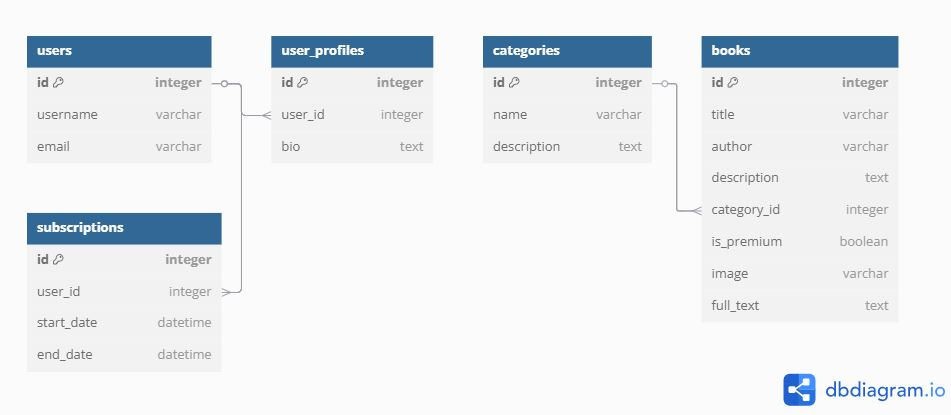
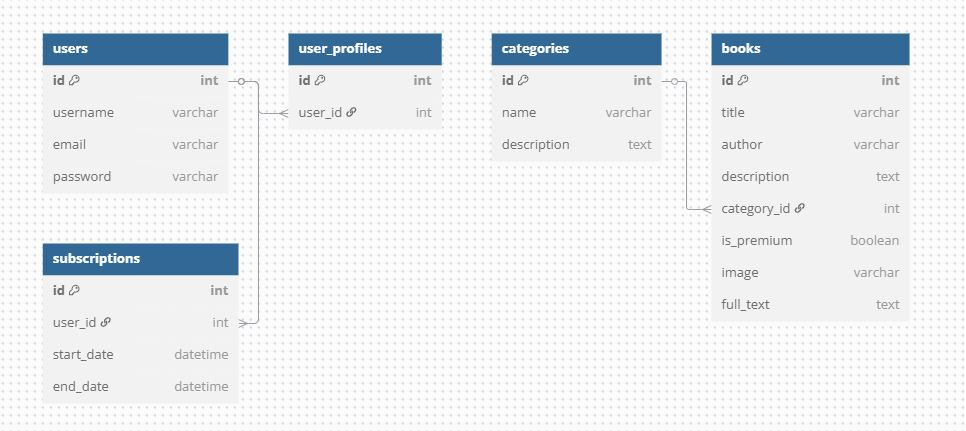
readme file updated

diff --git a/README.md b/README.md
@@ -16,8 +16,7 @@ Author: Aleksandar Husagic
 - [Database and Data Structure](#database-and-data-structure)  
 - [Testing](#testing)      
 - [Environment Variables](#environment-variables)   
-- [Future Improvements](#future-improvements)  
-- [Author](#author)  
+- [Future Improvements](#future-improvements)   
 ---
 
 ## Project Overview
@@ -122,10 +121,8 @@ The database schema is represented by the following Django models and their rela
 
 #### 3. **UserProfile**
 
-- Extends Django’s built-in User model for additional info.
 - Fields:
-  - `user`: OneToOneField to User  
-  - `bio`: Text, optional user biography  
+  - `user`: OneToOneField to User   
 
 #### 4. **Subscription**
 
@@ -146,7 +143,7 @@ The database schema is represented by the following Django models and their rela
 ### Entity-Relationship Diagram (ERD)
 
 The following ERD was generated using dbdiagram.io and illustrates the structure of the project’s PostgreSQL database, including all model relationships.
-<img src="static/images/diagram.JPG" alt="diagram" width="600">
+<img src="static/images/diagram.JPG" alt="diagram" width="800">
 
 ---
 
